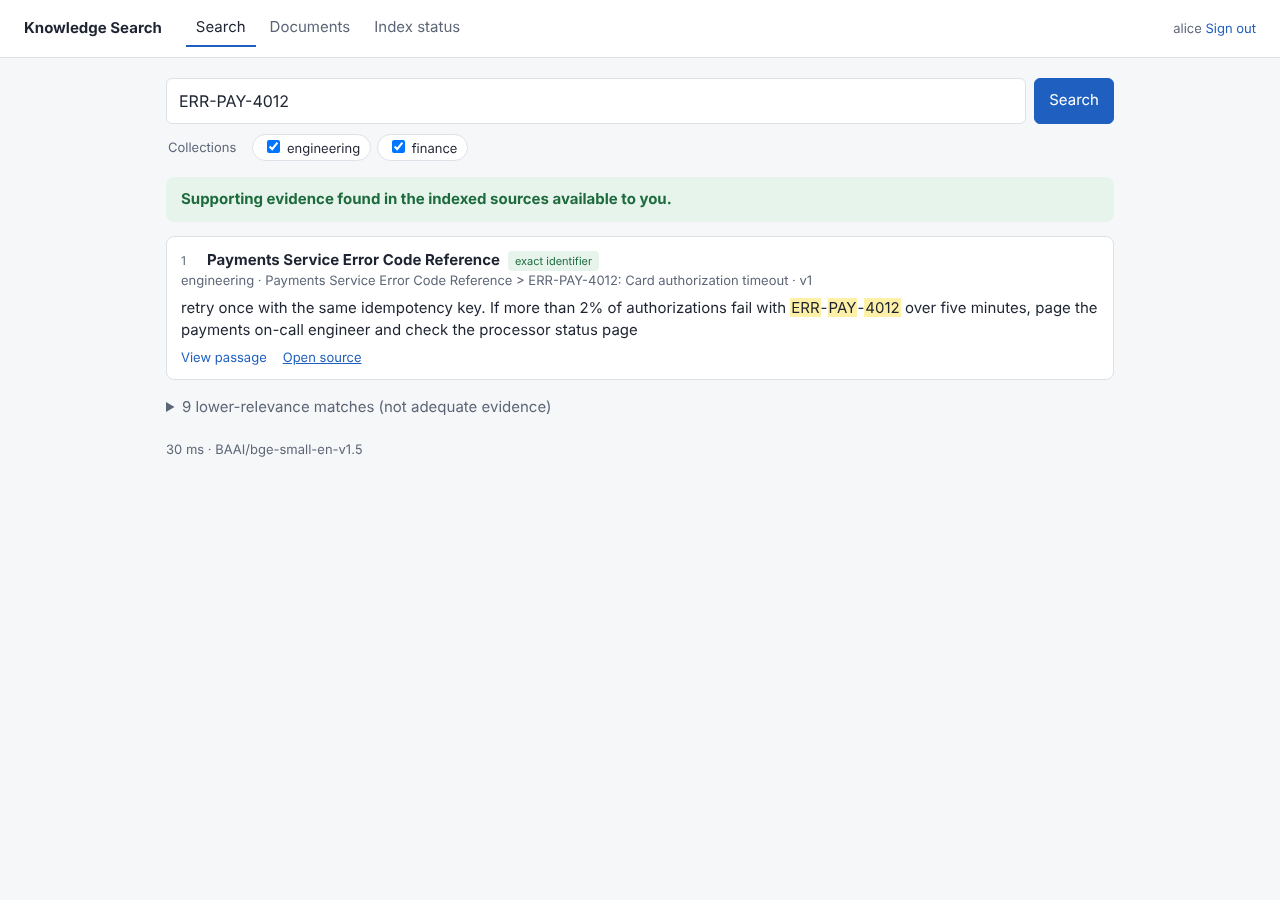
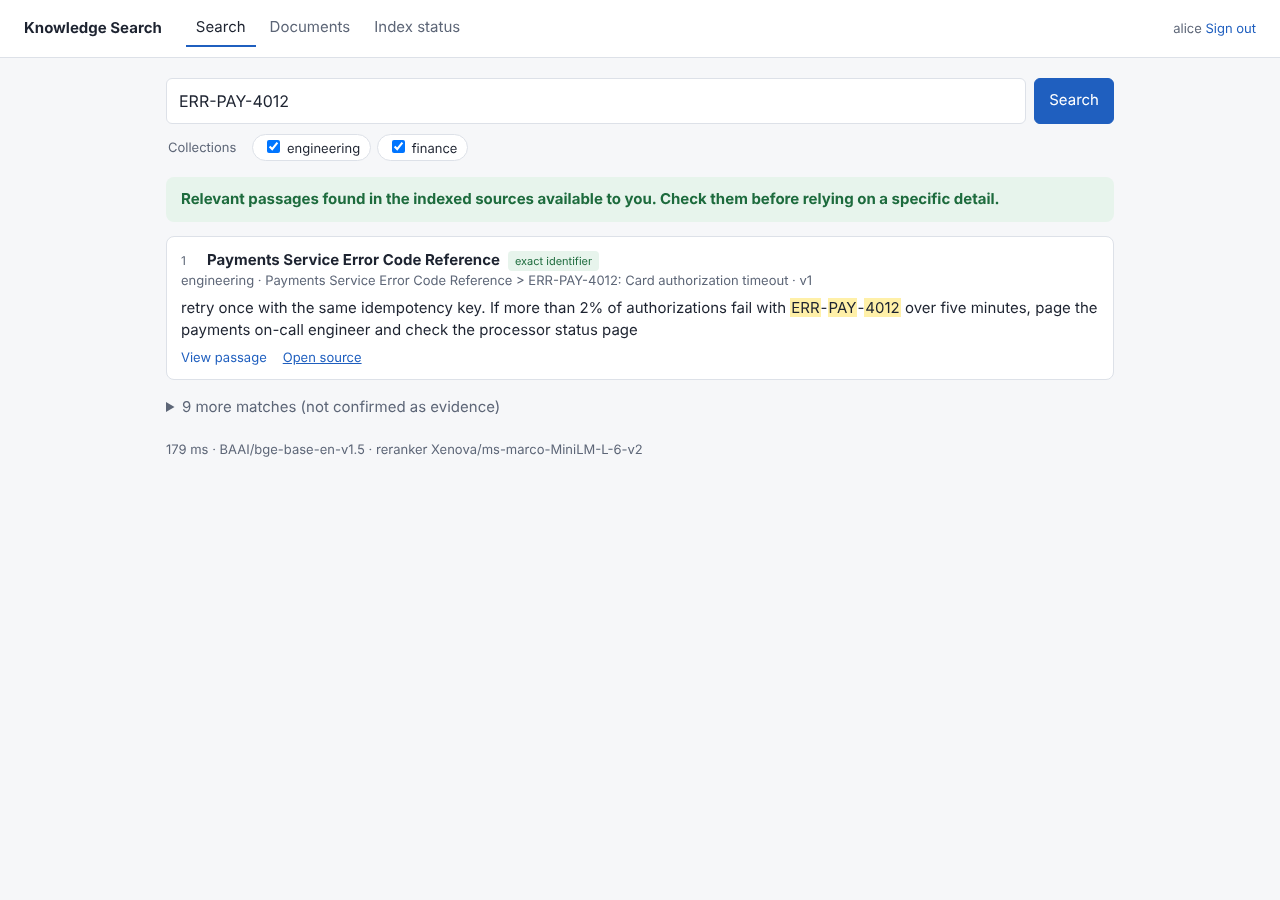
Final verification pass: fresh-install walkthrough, wording, docs
Fresh setup with the shipped defaults verified end to end (setup --demo,
start, full Playwright walkthrough); screenshots regenerated. Matches that
fail the evidence check are shown as 'Closest matches - not confirmed as
evidence' (the right passage is often among them). README, admin guide,
troubleshooting and handoff aligned with the reranker-on default.

Claude-Session: https://claude.ai/code/session_01CZrTR7byuWxCG3D2Fw3pFJ

diff --git a/src/knowledge_search/static/app.js b/src/knowledge_search/static/app.js
@@ -146,7 +146,9 @@ $("#search-form").addEventListener("submit", async (e) => {
   $("#results").replaceChildren(...strong.map(resultItem));
   if (weak.length) {
     $("#weak").hidden = false; $("#weak").open = !strong.length;
-    $("#weak summary").textContent = `${weak.length} lower-relevance match${weak.length > 1 ? "es" : ""} (not adequate evidence)`;
+    $("#weak summary").textContent = strong.length
+      ? `${weak.length} more match${weak.length > 1 ? "es" : ""} (not confirmed as evidence)`
+      : `Closest matches — not confirmed as evidence (${weak.length})`;
     $("#weak-results").replaceChildren(...weak.map(resultItem));
   }
   if (res.timings_ms) $("#timing").textContent = `${Math.round(res.timings_ms.total)} ms · ${res.index.embedding_model}${res.index.reranker ? " · reranker " + res.index.reranker : ""}`;

diff --git a/docs/admin-guide.md b/docs/admin-guide.md
@@ -6,7 +6,7 @@ Administrators see two extra tabs: **Settings** and **Users & access**.
 
 | Setting | What it does | Trade-off |
 |---|---|---|
-| **Embedding model** | Turns passages and queries into vectors for semantic search. Options range from `bge-small` (fast, ~70 MB) to `Qwen3-Embedding-0.6B` (~1.1 GB); measured accuracy and speed per model are in [Evaluation](evaluation.md). | Larger = better retrieval, slower indexing and queries on CPU. Changing it requires a reindex. |
+| **Embedding model** | Turns passages and queries into vectors for semantic search. Default `bge-base-en-v1.5` (~210 MB) — best measured accuracy/speed trade-off; `bge-small` (~70 MB) is ~3× faster to index but less accurate; larger models are available but untested here. Measurements: [Evaluation](evaluation.md). | Larger = better retrieval, slower indexing and queries on CPU. Changing it requires a reindex. |
 | **Chunk size** | Target passage length in characters (200–4000). | Smaller = more precise passages; larger = more context per result. |
 | **Overlap** | Repeats the last N characters of a passage at the start of the next, so a sentence split at a boundary is still found. Untick to disable. | More overlap = slightly larger index. |
 | **Reranker** | A local cross-encoder re-reads the top candidates together with the query, re-orders them and (in the reranker gate modes) decides what counts as evidence. | Better precision/coverage; adds CPU time per query (see [Evaluation](evaluation.md)). |

diff --git a/docs/troubleshooting.md b/docs/troubleshooting.md
@@ -11,7 +11,7 @@
 | Document **failed** — `no_extractable_text` | Scanned PDF without a text layer; OCR is not supported. |
 | Document **failed** — `invalid_encoding` | Text file is not UTF-8; re-save it as UTF-8. |
 | Search says **indexing incomplete** | Some documents in your scope are pending, failed or outdated (settings changed). Admin: Settings → Reindex. |
-| Search says **no adequate evidence** but a lower-relevance match looks right | The evidence check is conservative by design. Admins can enable the reranker or adjust thresholds (Settings). |
+| Search says **no adequate evidence** but one of the closest matches looks right | The evidence check is conservative by design (it is tuned to avoid false answers). Admins can try the stronger `bge-reranker-base` or adjust thresholds in Settings; see docs/evaluation.md for the trade-off. |
 | Search says **retrieval degraded** | A model could not be loaded (e.g. just switched and still downloading). Check Settings → model status. |
 | Embedded database will not start after a crash | Stop all app windows, then delete `data/pg/postmaster.pid` if it exists and start again. |
 | Running as root on Linux | The embedded PostgreSQL refuses root; it creates and uses a `pgserver` system user automatically. |

diff --git a/docs/HANDOFF.md b/docs/HANDOFF.md
@@ -34,6 +34,7 @@ registry + per-model thresholds), `runtime.py` (settings, model cache, reranker)
 
 | Item | Status | Evidence |
 |---|---|---|
+| Fresh install with shipped defaults (bge-base + MiniLM reranker, weighted fusion) | **verified** on Linux: `setup.sh --demo` into an empty data dir, `start.sh`, full UI walkthrough, screenshots regenerated | `docs/screenshots/` |
 | Test suite | **verified** | `uv run pytest -q` → 31 passed (search, permissions, lifecycle, admin/settings/reindex/reranker, in-memory vs pgvector parity, DB-failure 503, embedded-DB helpers) |
 | Linux setup | **verified** (`setup.ps1` logic run end-to-end under PowerShell 7 on Linux; CLI setup/demo/serve on Linux) | session logs |
 | Windows setup | **partially verified by the owner** on Windows 11: install, model download, DB init and indexing worked after the DLL fix; searches then crashed the embedded DB (pgvector distance functions on Windows) → fixed with in-memory vector search (commit 7ec7a93). **That fix is not yet verified on Windows.** | owner logs |

diff --git a/README.md b/README.md
@@ -7,12 +7,12 @@ language or by exact terms (error codes, file names, API paths). Every answer po
 and the original file. Everything — database, AI models, search — runs on your own machine or server:
 no cloud account, no GPU and no external AI provider are needed.
 
-![Search results with evidence](docs/screenshots/06-conflict.png)
+![Search results with evidence](docs/screenshots/07-conflict.png)
 
 ## Features
 
 - **Hybrid search** — keyword + semantic (local embedding model) + exact-identifier matching, fused by rank.
-- **Offline reranker** (optional) — a local cross-encoder re-orders the top results for higher precision.
+- **Offline reranker** (on by default) — a local cross-encoder re-orders the top results for higher precision.
 - **Evidence-first answers** — each search states whether adequate evidence was found, sources conflict,
   the index is incomplete, or nothing adequate exists in the sources *you* can access. No invented
   confidence numbers.

diff --git a/docs/user-guide.md b/docs/user-guide.md
@@ -20,8 +20,8 @@ Good queries:
 | **Indexing incomplete** | Some documents in your scope are still being indexed, failed, or were indexed with old settings, so absence cannot be established. |
 | **Retrieval degraded / failed** | A technical problem (e.g. a model could not be loaded). Not a statement about the documents. |
 
-Results that did not pass the evidence check are listed under **lower-relevance matches** — often still
-useful, but treat them with care.
+Results that did not pass the evidence check are listed as **closest matches — not confirmed as
+evidence**. The right passage is often among them (especially for paraphrased questions); read before relying on it.
 
 ## Each result shows
 
